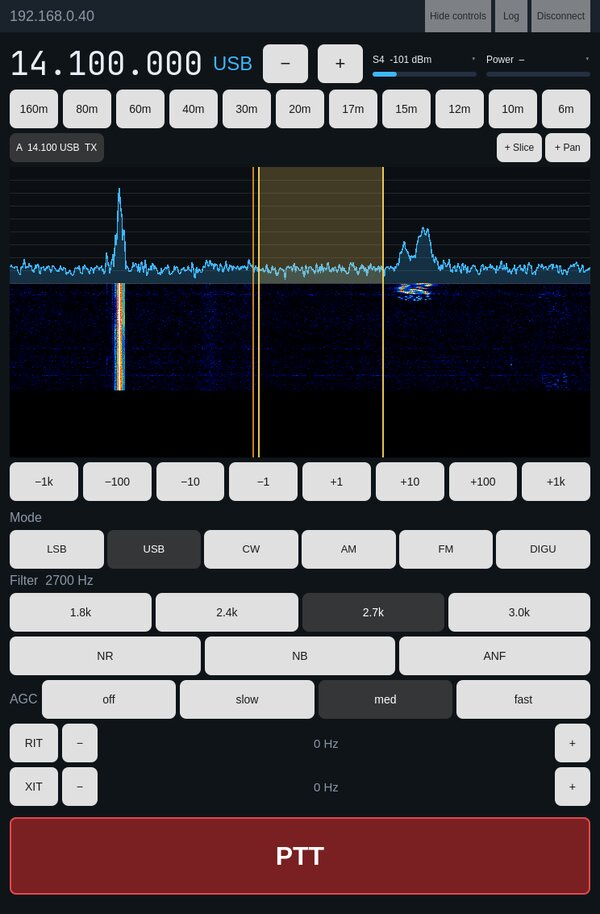
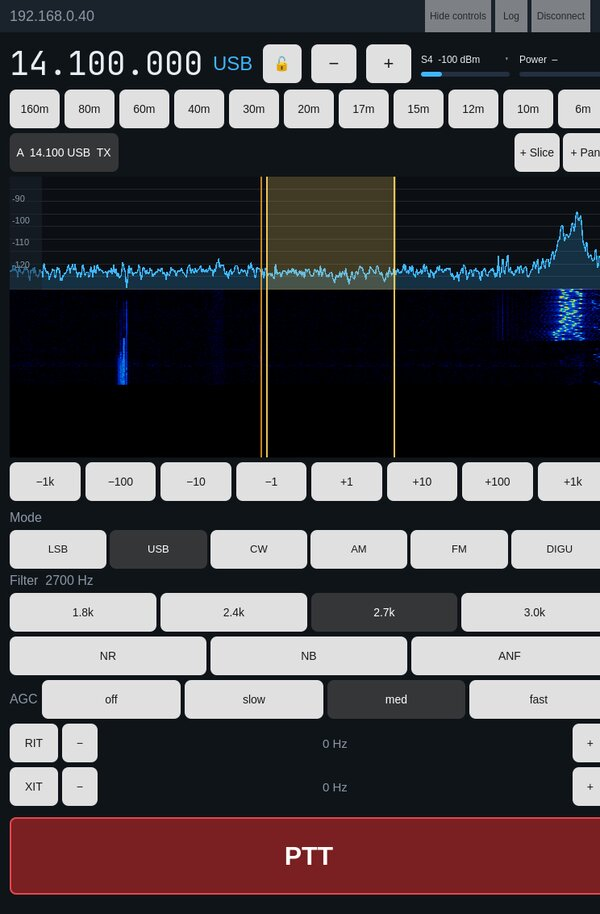
mobile: draggable dBm scale on the spectrum; screenshots refreshed
A dBm scale strip on the left of the spectrum (labels every 10-100 dB,
spaced to fit) moves the trace when dragged up or down, like the
reference-level drag in SmartSDR and AetherSDR. The first drag switches
the trace to manual at its current scale; Auto in the View tab restores
automatic ranging. SpectrumItem exposes its trace scale for the strip.

Screenshots rendered against the FLEX (receive only).

Claude-Session: https://claude.ai/code/session_01KANojkzU64KoozGDbNDzRK

diff --git a/mobile/qml/PanadapterView.qml b/mobile/qml/PanadapterView.qml
@@ -126,6 +126,66 @@ Rectangle {
            + parent.width / 2 - width / 2
     }
 
+    // dBm scale on the left of the spectrum (the reference level control of
+    // SmartSDR/AetherSDR): drag it up or down to move the trace. A drag
+    // switches the trace to manual; Auto in the View tab gives it back.
+    Item {
+        id: scaleStrip
+        z: 4
+        width: 40
+        height: parent.height * spectrum.spectrumFraction
+        readonly property real topDbm: spectrum.traceTopDbm
+        readonly property real bottomDbm: spectrum.traceBottomDbm
+        readonly property real range: Math.max(1, topDbm - bottomDbm)
+        // The smallest round step that keeps labels at least 18 px apart.
+        readonly property int step: {
+            for (const st of [10, 20, 30, 50, 100]) {
+                if (st / range * height >= 18) return st
+            }
+            return 100
+        }
+        Rectangle { anchors.fill: parent; color: Theme.surface; opacity: scaleDrag.pressed ? 0.85 : 0.55 }
+        Repeater {
+            model: {
+                const ticks = []
+                for (let d = Math.ceil(scaleStrip.bottomDbm / scaleStrip.step) * scaleStrip.step;
+                     d <= scaleStrip.topDbm; d += scaleStrip.step) ticks.push(d)
+                return ticks
+            }
+            delegate: Label {
+                required property int modelData
+                x: 3
+                y: (scaleStrip.topDbm - modelData) / scaleStrip.range * scaleStrip.height - height / 2
+                visible: y > 0 && y < scaleStrip.height - height
+                text: modelData
+                color: Theme.textDim
+                font.pixelSize: 11
+            }
+        }
+        MouseArea {
+            id: scaleDrag
+            anchors.fill: parent
+            preventStealing: true
+            property real startTop: 0
+            property real startY: 0
+            property real span: 90
+            onPressed: (mouse) => {
+                startTop = scaleStrip.topDbm
+                span = scaleStrip.range
+                startY = mouse.y
+                if (Engine.traceAutoRange) {
+                    Engine.traceRangeDb = Math.round(span)
+                    Engine.traceRefDbm = Math.round(startTop)
+                    Engine.traceAutoRange = false
+                }
+            }
+            // The trace follows the finger: dragging down raises the top level.
+            onPositionChanged: (mouse) => {
+                Engine.traceRefDbm = Math.round(startTop + (mouse.y - startY) / height * span)
+            }
+        }
+    }
+
     function mhzAt(x) {
         return Engine.panCenterMhz + (x / panArea.width - 0.5) * Engine.panBandwidthMhz
     }

diff --git a/mobile/src/SpectrumItem.h b/mobile/src/SpectrumItem.h
@@ -20,6 +20,10 @@ class SpectrumItem : public QQuickPaintedItem {
     QML_ELEMENT
     Q_PROPERTY(AetherSDR::mobile::MobileEngine* engine READ engine WRITE setEngine NOTIFY engineChanged)
     Q_PROPERTY(double spectrumFraction READ spectrumFraction WRITE setSpectrumFraction NOTIFY spectrumFractionChanged)
+    // The trace's current scale (dBm at the top and bottom of the spectrum
+    // area), for the dBm scale strip and its drag.
+    Q_PROPERTY(double traceTopDbm READ traceTopDbm NOTIFY traceScaleChanged)
+    Q_PROPERTY(double traceBottomDbm READ traceBottomDbm NOTIFY traceScaleChanged)
 
 public:
     explicit SpectrumItem(QQuickItem* parent = nullptr);
@@ -27,6 +31,8 @@ public:
     MobileEngine* engine() const { return m_engine; }
     void setEngine(MobileEngine* engine);
     double spectrumFraction() const { return m_spectrumFraction; }
+    double traceTopDbm() const { return m_traceTop; }
+    double traceBottomDbm() const { return m_traceBottom; }
     void setSpectrumFraction(double fraction);
 
     void paint(QPainter* painter) override;
@@ -34,6 +40,7 @@ public:
 signals:
     void engineChanged();
     void spectrumFractionChanged();
+    void traceScaleChanged();
 
 protected:
     void geometryChange(const QRectF& newGeometry, const QRectF& oldGeometry) override;
@@ -61,6 +68,8 @@ private:
     float m_traceBottom{-130.0f};
     float m_traceTop{-40.0f};
     bool m_traceSeeded{false};
+    float m_reportedTop{0.0f};
+    float m_reportedBottom{0.0f};
     double m_spectrumFraction{0.4};
     // The radio sends no waterfall rows while transmitting; the trace's
     // frames fill in, paced like the RX waterfall (as SpectrumWidget does).

diff --git a/mobile/src/SpectrumItem.cpp b/mobile/src/SpectrumItem.cpp
@@ -127,6 +127,13 @@ void SpectrumItem::onSpectrum(const QVector<float>& binsDbm)
             m_traceBottom += (bottom - m_traceBottom) * kTraceSmoothing;
             m_traceTop += (top - m_traceTop) * kTraceSmoothing;
         }
+        // Tell the scale strip when the scale moved by at least 1 dB.
+        if (std::abs(m_traceTop - m_reportedTop) >= 1.0f
+            || std::abs(m_traceBottom - m_reportedBottom) >= 1.0f) {
+            m_reportedTop = m_traceTop;
+            m_reportedBottom = m_traceBottom;
+            emit traceScaleChanged();
+        }
         if (m_engine && m_engine->spectrum3D()) {
             const qint64 now = QDateTime::currentMSecsSinceEpoch();
             if (now >= m_nextDssRowMs) {

diff --git a/README.md b/README.md
@@ -38,6 +38,8 @@ radio interface, with no computer running alongside.
   desktop; while tuning, holding the finger at either edge keeps scrolling,
   faster nearer the edge. Pinch or use −/+ to zoom around the slice.
 - Your own transmission shows in the waterfall.
+- dBm scale on the spectrum: drag it up or down to move the trace, as
+  the reference level in SmartSDR and AetherSDR.
 - Waterfall black level and colour gain, and the spectrum's reference level
   and range (or Auto), in the View tab. Remembered on the device.
 - Tuning lock next to the frequency.
